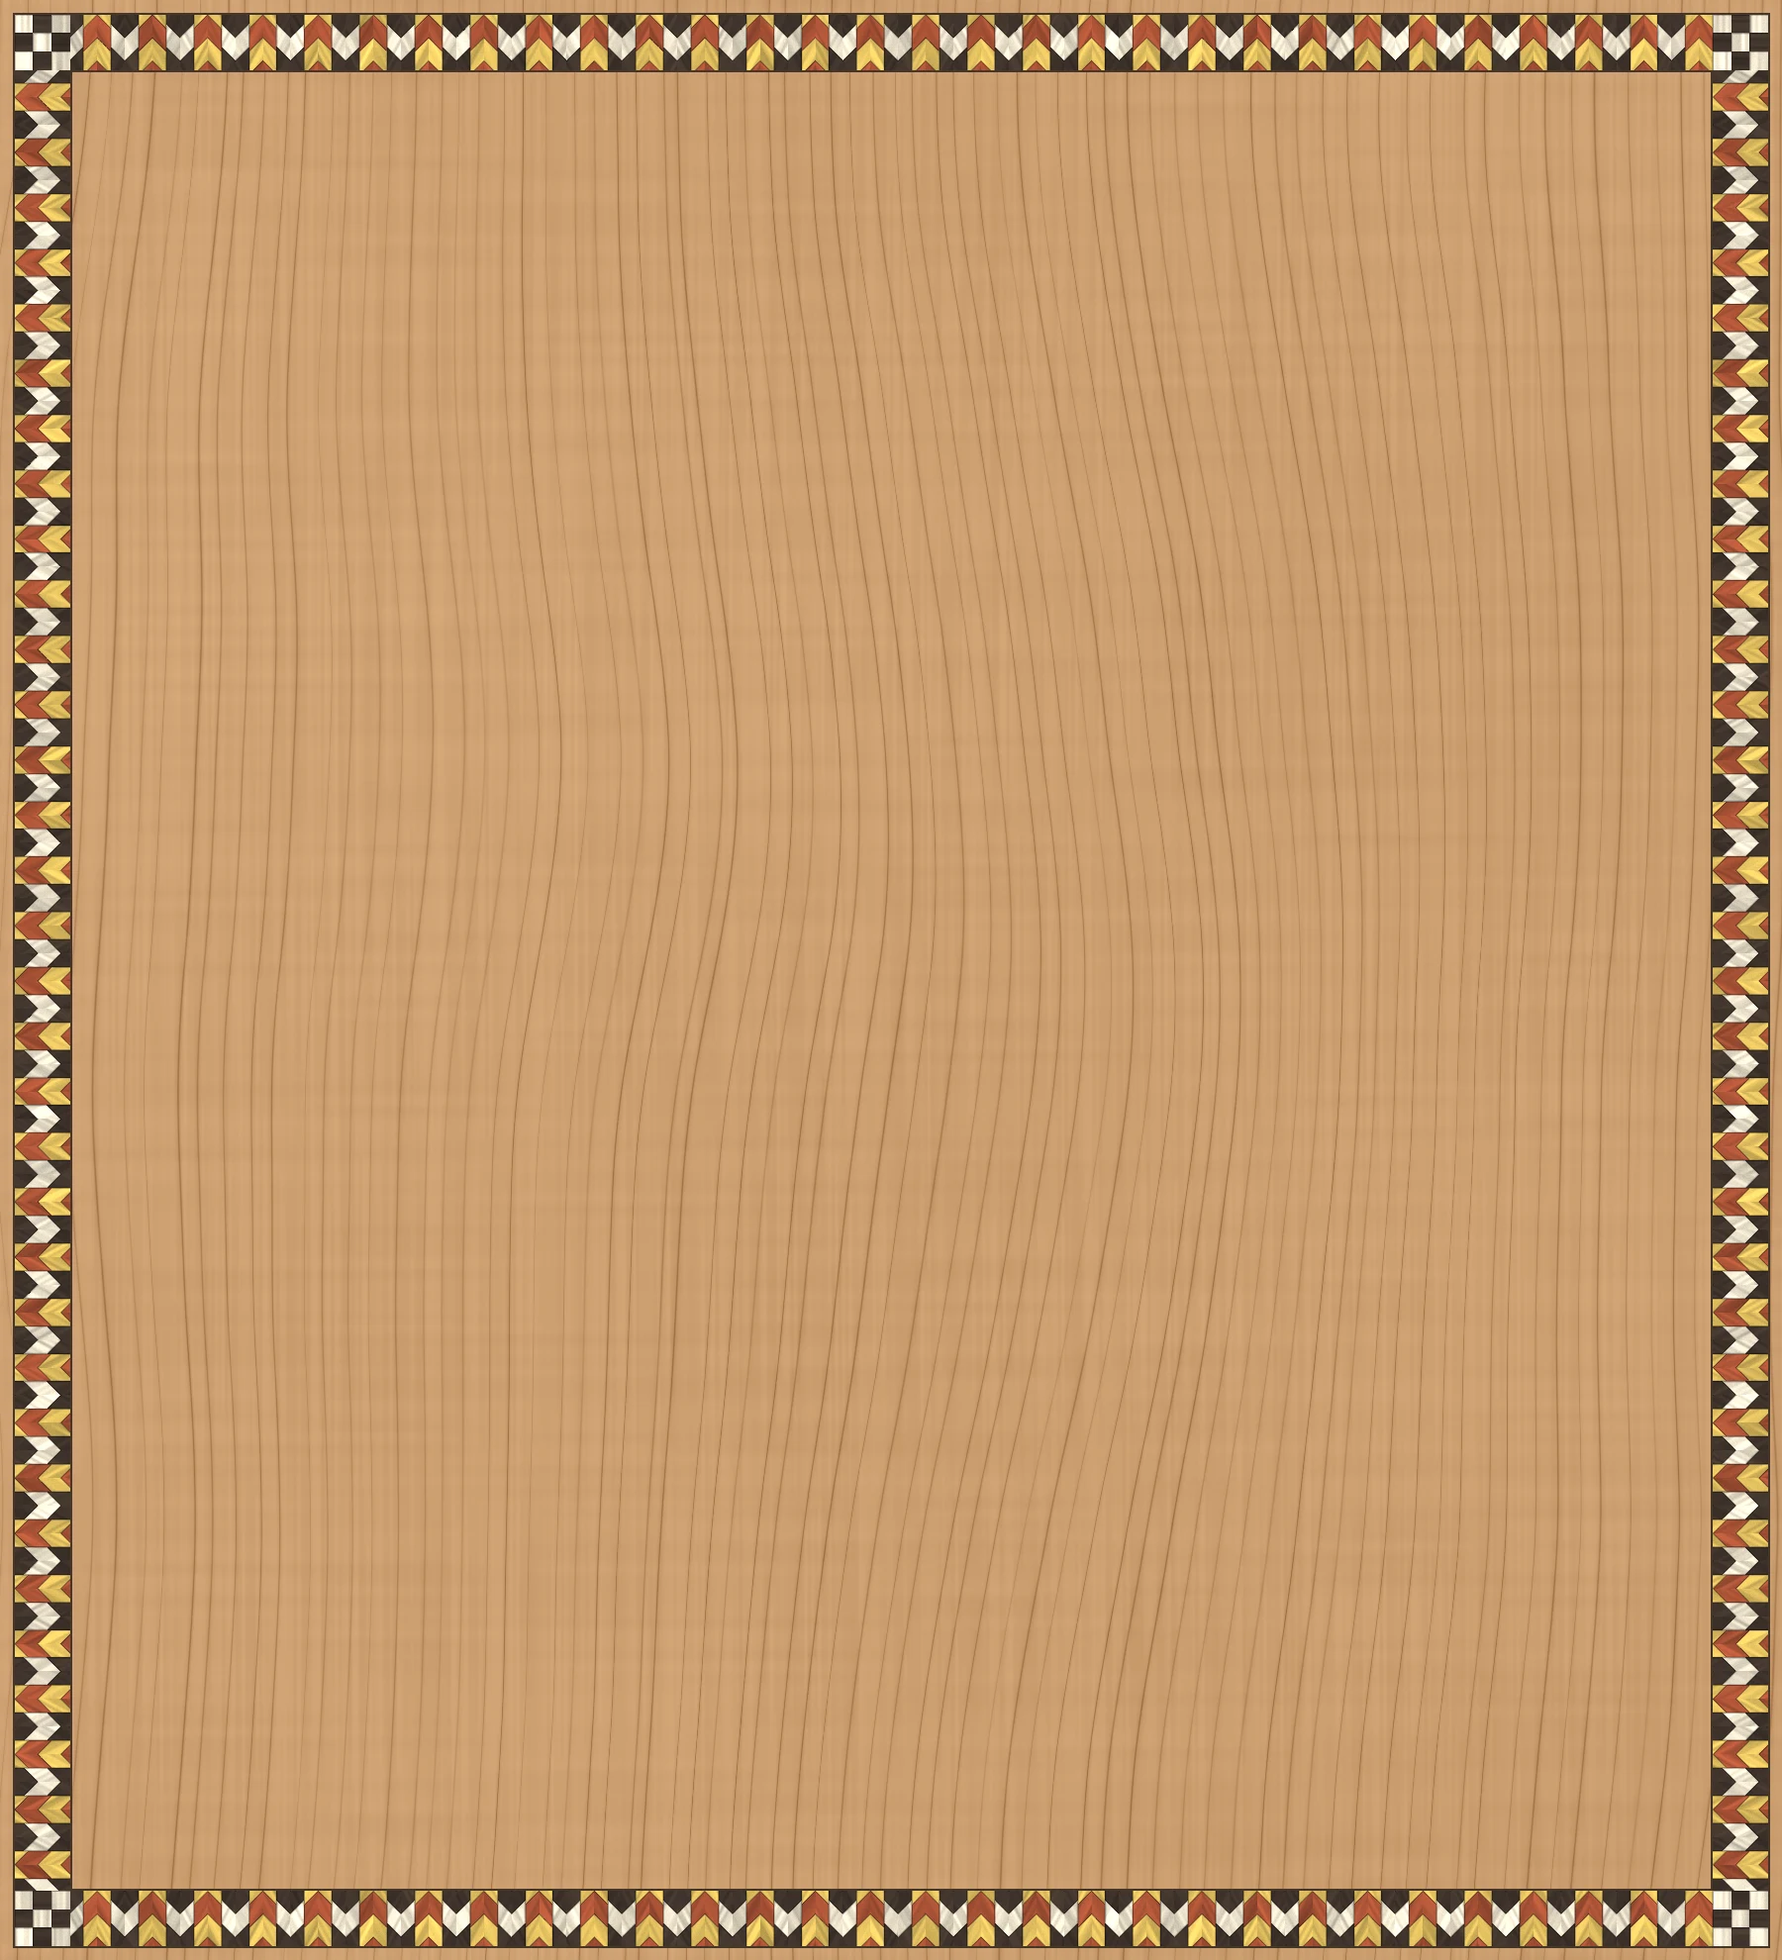
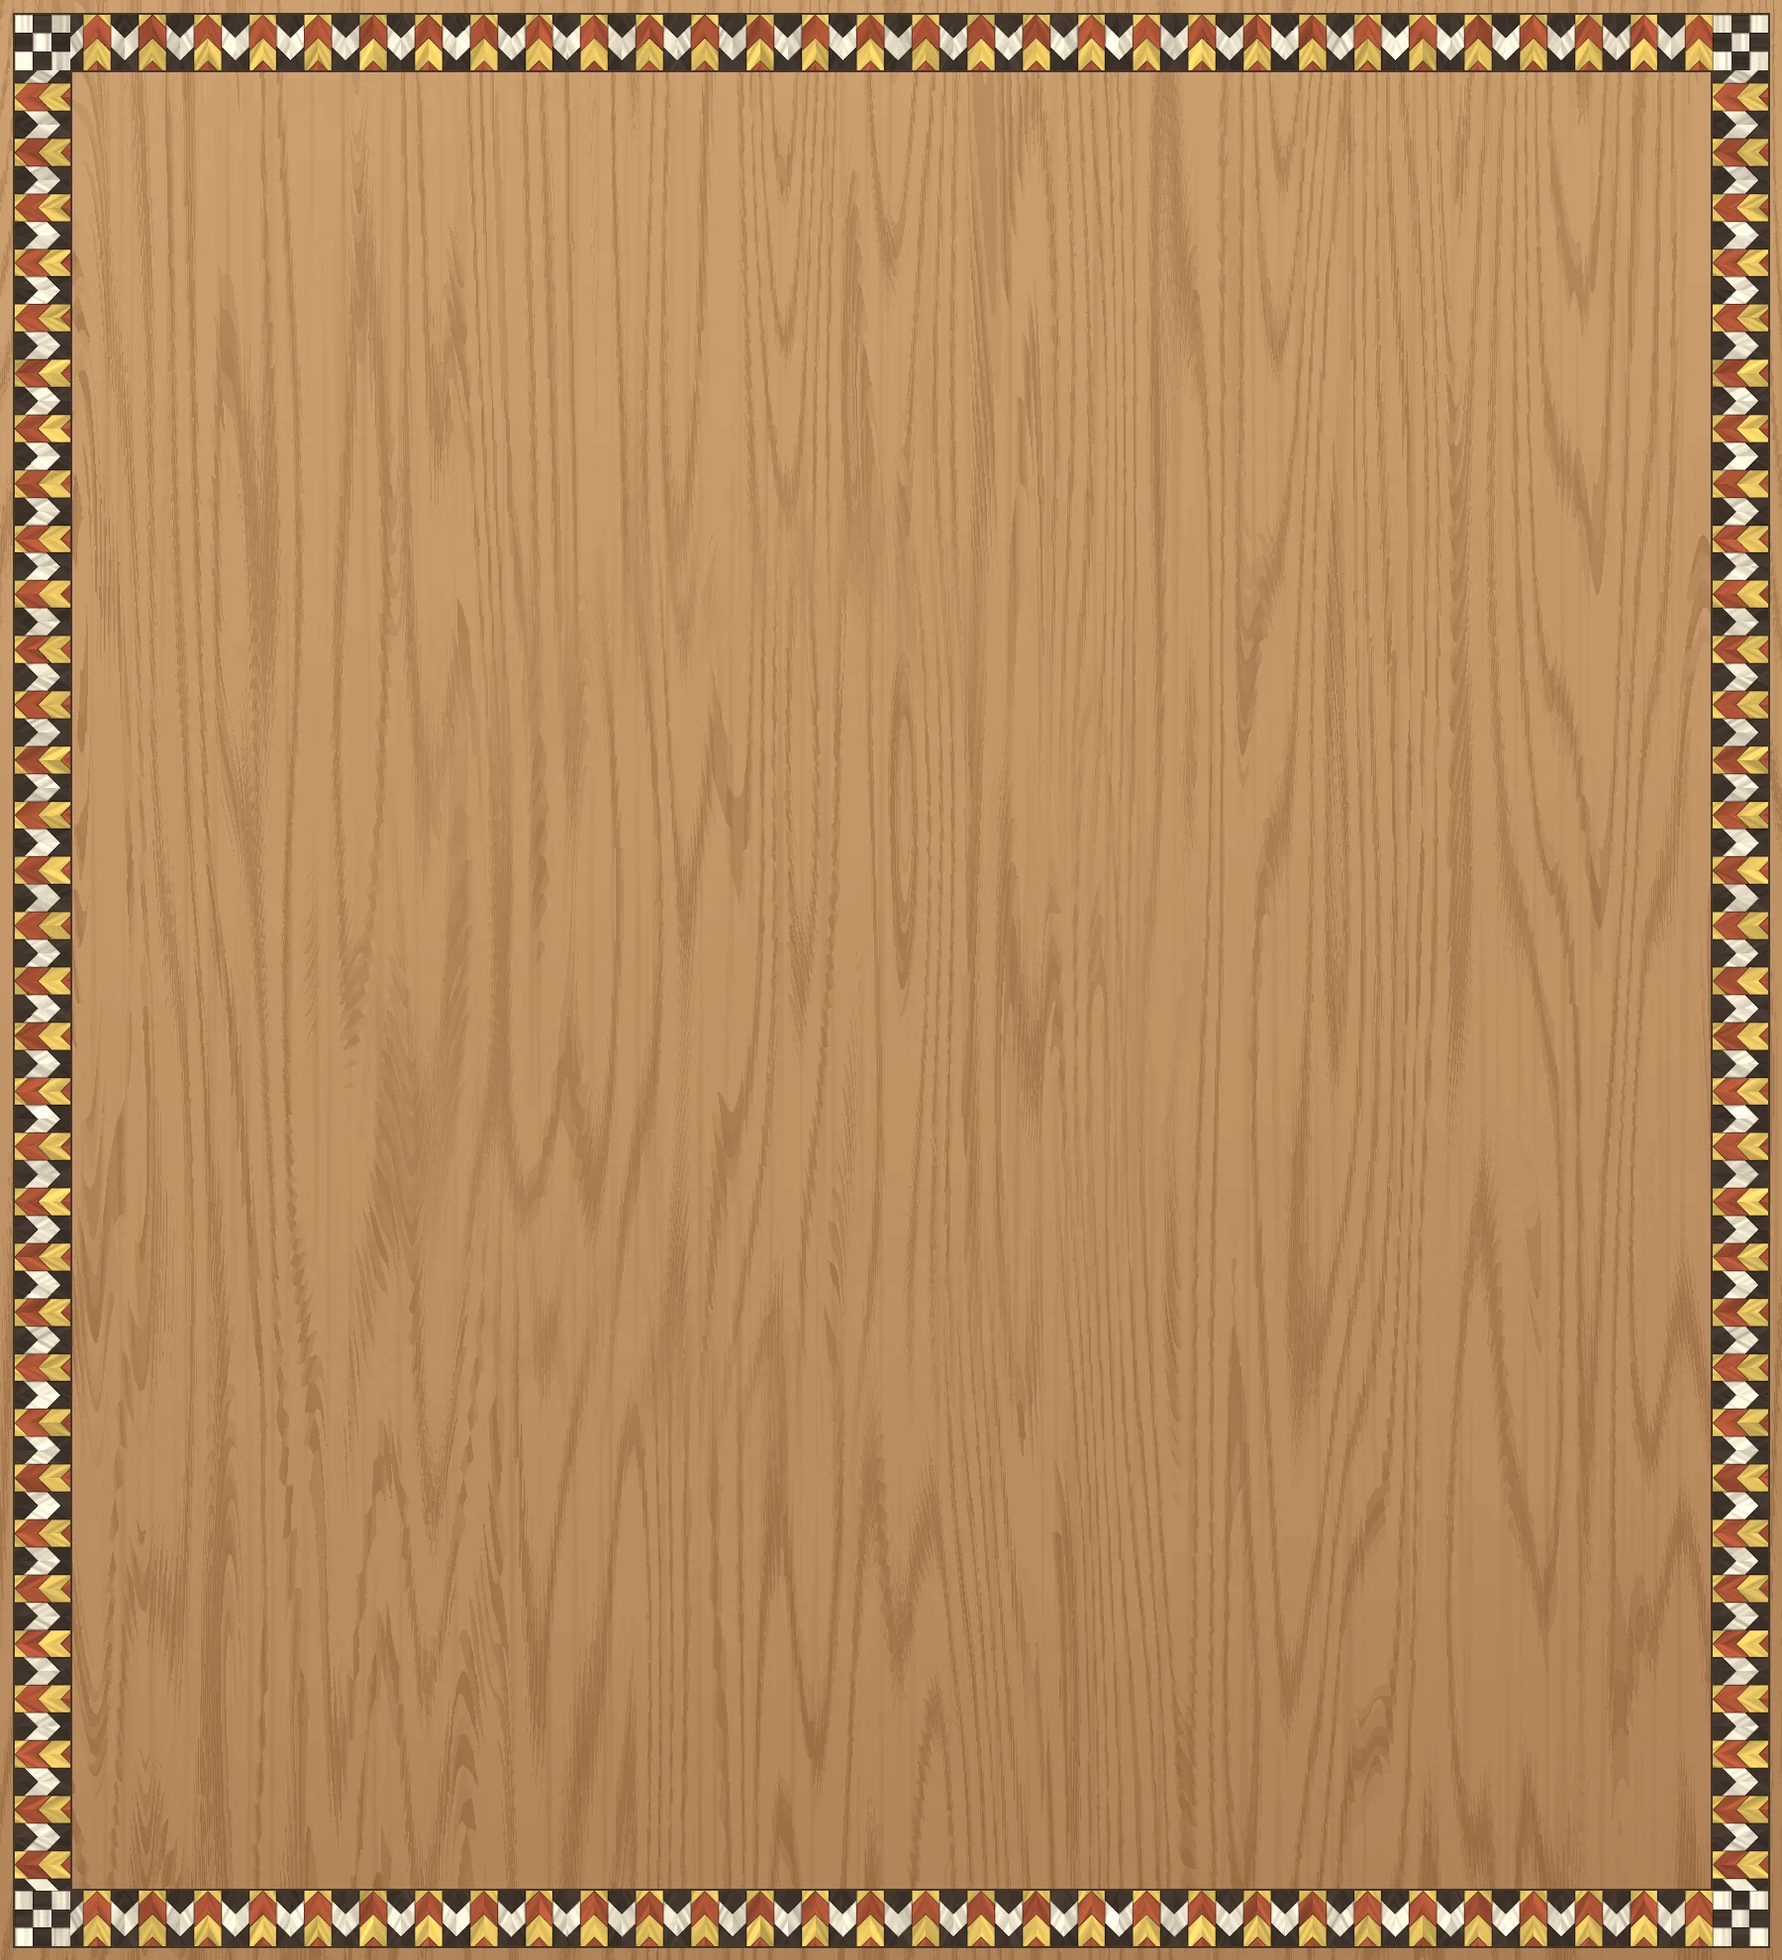
将棋3D盤：寄木細工の盤面を本榧と同じ複雑な木目（桂の色）に
Claude-Session: https://claude.ai/code/session_01EiWRAWLV8eg6m15v5x8gee

diff --git a/atlas/lazy.js b/atlas/lazy.js
@@ -5,7 +5,7 @@
      AtlasLazy.has3D(id) / hasPlay(id) / hasRules(id) — known before loading; AtlasLazy.loaded(id) */
 (function () {
 'use strict';
-const G = {"reversi": ["games/reversi.js?v=36", "rules/reversi.js?v=14"], "shogi": ["models/shogi.js?v=40", "games/shogi-play.js?v=32", "games/shogi.js?v=14", "rules/shogi.js?v=21"], "chess": ["models/chess.js?v=16", "games/chess.js?v=15", "rules/chess.js?v=7"], "backgammon": ["models/backgammon.js?v=118", "games/backgammon.js?v=22", "rules/backgammon.js?v=11"], "gomoku": ["models/goban.js?v=14", "games/gomoku.js?v=12", "rules/gomoku.js?v=9"], "go": ["models/goban.js?v=14", "games/go.js?v=7", "rules/go.js?v=7"], "hex": ["models/goban.js?v=14", "models/hex.js?v=2", "games/hex.js?v=6", "rules/hex.js?v=6"], "tafl": ["games/tafl.js?v=15", "rules/tafl.js?v=7"], "xiangqi": ["models/xiangqi.js?v=4", "games/xiangqi.js?v=13", "rules/xiangqi.js?v=6"], "janggi": ["models/xiangqi.js?v=4", "models/janggi.js?v=3", "games/janggi.js?v=5", "rules/janggi.js?v=2"], "checkers": ["models/checkers.js?v=17", "games/checkers.js?v=8", "rules/checkers.js?v=4"], "ugolki": ["models/checkers.js?v=17", "models/ugolki.js?v=4", "games/ugolki.js?v=8", "rules/ugolki.js?v=8"], "morris": ["models/morris.js?v=7", "games/morris-pieces.js?v=2", "games/morris.js?v=7", "rules/morris.js?v=5"], "connect4": ["models/connect4.js?v=5", "games/connect4-tiles.js?v=1", "games/connect4.js?v=5", "rules/connect4.js?v=3"], "mancala": ["models/mancala.js?v=5", "games/mancala.js?v=10", "rules/mancala.js?v=4"], "dots": ["models/dots.js?v=4", "games/dots.js?v=9", "rules/dots.js?v=3"], "ur": ["models/ur-dice.js?v=2", "models/ur.js?v=4", "games/ur-kit.js?v=15", "games/ur.js?v=11", "rules/ur.js?v=16"], "fanorona": ["models/fanorona.js?v=4", "games/fanorona.js?v=6", "rules/fanorona.js?v=8"], "konane": ["models/konane.js?v=7", "games/konane.js?v=11", "rules/konane.js?v=5"], "amazons": ["models/amazons.js?v=7", "games/amazons.js?v=10", "rules/amazons.js?v=4"], "senet": ["models/ur-dice.js?v=2", "models/senet.js?v=10", "games/senet-kit.js?v=5", "games/senet.js?v=16", "rules/senet.js?v=8"], "agon": ["models/agon.js?v=4", "games/agon.js?v=11", "rules/agon.js?v=5"], "alquerque": ["models/alquerque.js?v=3", "rules/alquerque.js?v=6"], "ludo": ["../ludo/engine.js?v=3", "../ludo/house.js?v=7", "../ludo/board2d.js?v=7", "../ludo/board-art.js?v=3", "models/ludo.js?v=10", "games/ludo.js?v=28", "rules/ludo.js?v=3"], "carrom": ["../carrom/engine.js?v=6", "models/carrom.js?v=17", "games/carrom.js?v=37", "rules/carrom.js?v=8"], "crokinole": ["../carrom/engine.js?v=6", "games/carrom.js?v=37", "../crokinole/engine.js?v=3", "models/crokinole.js?v=12", "games/crokinole.js?v=14", "rules/crokinole.js?v=4"], "hockey": ["../hockey/engine.js?v=13", "models/hockey.js?v=8", "games/hockey.js?v=19", "rules/hockey.js?v=7"], "peg": ["../peg/engine.js?v=1", "models/peg.js?v=5", "rules/peg.js?v=4"]};
+const G = {"reversi": ["games/reversi.js?v=36", "rules/reversi.js?v=14"], "shogi": ["models/shogi.js?v=41", "games/shogi-play.js?v=32", "games/shogi.js?v=14", "rules/shogi.js?v=21"], "chess": ["models/chess.js?v=16", "games/chess.js?v=15", "rules/chess.js?v=7"], "backgammon": ["models/backgammon.js?v=118", "games/backgammon.js?v=22", "rules/backgammon.js?v=11"], "gomoku": ["models/goban.js?v=14", "games/gomoku.js?v=12", "rules/gomoku.js?v=9"], "go": ["models/goban.js?v=14", "games/go.js?v=7", "rules/go.js?v=7"], "hex": ["models/goban.js?v=14", "models/hex.js?v=2", "games/hex.js?v=6", "rules/hex.js?v=6"], "tafl": ["games/tafl.js?v=15", "rules/tafl.js?v=7"], "xiangqi": ["models/xiangqi.js?v=4", "games/xiangqi.js?v=13", "rules/xiangqi.js?v=6"], "janggi": ["models/xiangqi.js?v=4", "models/janggi.js?v=3", "games/janggi.js?v=5", "rules/janggi.js?v=2"], "checkers": ["models/checkers.js?v=17", "games/checkers.js?v=8", "rules/checkers.js?v=4"], "ugolki": ["models/checkers.js?v=17", "models/ugolki.js?v=4", "games/ugolki.js?v=8", "rules/ugolki.js?v=8"], "morris": ["models/morris.js?v=7", "games/morris-pieces.js?v=2", "games/morris.js?v=7", "rules/morris.js?v=5"], "connect4": ["models/connect4.js?v=5", "games/connect4-tiles.js?v=1", "games/connect4.js?v=5", "rules/connect4.js?v=3"], "mancala": ["models/mancala.js?v=5", "games/mancala.js?v=10", "rules/mancala.js?v=4"], "dots": ["models/dots.js?v=4", "games/dots.js?v=9", "rules/dots.js?v=3"], "ur": ["models/ur-dice.js?v=2", "models/ur.js?v=4", "games/ur-kit.js?v=15", "games/ur.js?v=11", "rules/ur.js?v=16"], "fanorona": ["models/fanorona.js?v=4", "games/fanorona.js?v=6", "rules/fanorona.js?v=8"], "konane": ["models/konane.js?v=7", "games/konane.js?v=11", "rules/konane.js?v=5"], "amazons": ["models/amazons.js?v=7", "games/amazons.js?v=10", "rules/amazons.js?v=4"], "senet": ["models/ur-dice.js?v=2", "models/senet.js?v=10", "games/senet-kit.js?v=5", "games/senet.js?v=16", "rules/senet.js?v=8"], "agon": ["models/agon.js?v=4", "games/agon.js?v=11", "rules/agon.js?v=5"], "alquerque": ["models/alquerque.js?v=3", "rules/alquerque.js?v=6"], "ludo": ["../ludo/engine.js?v=3", "../ludo/house.js?v=7", "../ludo/board2d.js?v=7", "../ludo/board-art.js?v=3", "models/ludo.js?v=10", "games/ludo.js?v=28", "rules/ludo.js?v=3"], "carrom": ["../carrom/engine.js?v=6", "models/carrom.js?v=17", "games/carrom.js?v=37", "rules/carrom.js?v=8"], "crokinole": ["../carrom/engine.js?v=6", "games/carrom.js?v=37", "../crokinole/engine.js?v=3", "models/crokinole.js?v=12", "games/crokinole.js?v=14", "rules/crokinole.js?v=4"], "hockey": ["../hockey/engine.js?v=13", "models/hockey.js?v=8", "games/hockey.js?v=19", "rules/hockey.js?v=7"], "peg": ["../peg/engine.js?v=1", "models/peg.js?v=5", "rules/peg.js?v=4"]};
 const F = {"reversi": {"t3": true, "play": true, "rules": true}, "shogi": {"t3": true, "play": true, "rules": true}, "chess": {"t3": true, "play": true, "rules": true}, "backgammon": {"t3": true, "play": true, "rules": true}, "gomoku": {"t3": true, "play": true, "rules": true}, "go": {"t3": true, "play": true, "rules": true}, "hex": {"t3": true, "play": true, "rules": true}, "tafl": {"t3": true, "play": true, "rules": true}, "xiangqi": {"t3": true, "play": true, "rules": true}, "janggi": {"t3": true, "play": true, "rules": true}, "checkers": {"t3": true, "play": true, "rules": true}, "ugolki": {"t3": true, "play": true, "rules": true}, "morris": {"t3": true, "play": true, "rules": true}, "connect4": {"t3": true, "play": true, "rules": true}, "mancala": {"t3": true, "play": true, "rules": true}, "dots": {"t3": true, "play": true, "rules": true}, "ur": {"t3": true, "play": true, "rules": true}, "fanorona": {"t3": true, "play": true, "rules": true}, "konane": {"t3": true, "play": true, "rules": true}, "amazons": {"t3": true, "play": true, "rules": true}, "senet": {"t3": true, "play": true, "rules": true}, "agon": {"t3": true, "play": true, "rules": true}, "alquerque": {"t3": true, "play": false, "rules": true}, "ludo": {"t3": true, "play": true, "rules": true}, "carrom": {"t3": true, "play": true, "rules": true}, "crokinole": {"t3": true, "play": true, "rules": true}, "hockey": {"t3": true, "play": true, "rules": true}, "peg": {"t3": true, "play": false, "rules": true}};
 const done = new Set(), loading = new Map(), ok = new Set();
 function load(src) {

diff --git a/atlas/tools/shogi-tex.html b/atlas/tools/shogi-tex.html
@@ -382,7 +382,7 @@
     const bands = [[0, .3, { kind: 'field', wood: 'katsura' }], [.3, .34, { kind: 'stripe', a: H * .013, y0: H * .3, cols: ['dark', 'white', 'dark'] }], [.34, .66, { kind: 'zig', a: H * .055, p: H * .16, amp: H * .1, x0: 0, y0: H * .34 - H * .1, cols: ['dark', 'white', 'brown', 'white'] }], [.66, .7, { kind: 'stripe', a: H * .013, y0: H * .66, cols: ['dark', 'white', 'dark'] }], [.7, 1, { kind: 'field', wood: 'katsura' }]];
     return pix(W, H, (x, y) => { const v = y / H, b = bands.find(b => v >= b[0] && v < b[1]) || bands[4]; let o = yosegiPx(x, y, b[2], s); if (b[2].kind === 'field') o = straight(x, y, W, H, s + 40, [214, 170, 122], [150, 100, 58], 46, .85, false, 2.6); return o; });
   }
-  function yosegiTop(W, H, s) {   // a pale ホオ field; the rim (the margin around the grid) a band of 矢羽根 with 市松 corners
+  function yosegiTop(W, H, s, kd) {   // kd: the 本榧 top's pixels (the same grain, recoloured to 桂)   // a pale ホオ field; the rim (the margin around the grid) a band of 矢羽根 with 市松 corners
     const mg = W * .05, bw = mg * .62, b0 = mg * .16;   // the board's margin is .5 of the 10-unit width
     return pix(W, H, (x, y) => {
       const inB = (x > b0 && x < W - b0 && y > b0 && y < H - b0) && !(x > b0 + bw && x < W - b0 - bw && y > b0 + bw && y < H - b0 - bw);
@@ -394,7 +394,7 @@
         const o = yosegiPx(lx, ly, { kind: 'yabane', a: bw / 2, x0: 0, y0: 0 }, s); return o;
       }
       const edge = Math.min(Math.abs(x - b0), Math.abs(y - b0), Math.abs(W - b0 - x), Math.abs(H - b0 - y), Math.abs(x - b0 - bw), Math.abs(y - b0 - bw), Math.abs(W - b0 - bw - x), Math.abs(H - b0 - bw - y));
-      const o = straight(x, y, W, H, s + 40, [214, 170, 122], [150, 100, 58], 74, .85, true, 2.6);   // 桂, the same tone as the 駒台 (2026-11-11)
+      const o = kd ? (() => { const i = (y * W + x) * 4, t = Math.max(0, Math.min(1, (226 - (kd[i] * .5 + kd[i + 1] * .35 + kd[i + 2] * .15)) / 95)); return [mix(216, 132, t), mix(172, 86, t), mix(124, 48, t)]; })() : straight(x, y, W, H, s + 40, [214, 170, 122], [150, 100, 58], 74, .85, true, 2.6);   // 桂, the same tone as the 駒台 (2026-11-11)
       if (edge < 2.2 && x > b0 - 2 && x < W - b0 + 2 && y > b0 - 2 && y < H - b0 + 2) return [70, 54, 40];
       return o;
     });
@@ -641,7 +641,7 @@
   const GENS = {
     'top-grain': () => { const W = 1800, H = 1980, c = pix(W, H, (x, y) => { const o = straight(x, y, W, H, 41, [226, 198, 146], [176, 130, 72], 96, 1.05, true); const sil = (vnoise(x / W * 3, y / H * 40, 43) - .5) * 14; return [o[0] + sil, o[1] + sil * .9, o[2] + sil * .6]; }); vignette(ctx(c), W, H, 'rgba(150,100,40,.28)', .6); return c; },   // 新榧 (2026-11-11 v2: fine 柾目 with a silky sheen, not the 2D SVG)
     'top-ink': () => top2d('ink'),
-    'top-yosegi': () => yosegiTop(1800, 1980, 5),
+    'top-yosegi': async () => { const im = await loadImg('../../images/atlas/shogi-kaya.webp?v=3'), c = cv(1800, 1980), g = ctx(c); g.drawImage(im, 0, 0, 1800, 1980); return yosegiTop(1800, 1980, 5, g.getImageData(0, 0, 1800, 1980).data); },   // (2026-11-11: the 本榧 grain in 桂's colour)
     'top-sakura': () => sakuraTop(1800, 1980, 9),
     'side-makie': () => makie('side')[0], 'side-makie-m': () => makie('side')[1],
     'end-makie': () => makie('end')[0], 'end-makie-m': () => makie('end')[1],

diff --git a/shogi/index.html b/shogi/index.html
@@ -6466,7 +6466,7 @@ if (window.Online && Online.available) setInterval(() => { if (dock.on) chatStar
   const f = document.createElement('link'); f.rel = 'stylesheet'; f.href = 'https://fonts.googleapis.com/css2?family=RocknRoll+One&family=Zen+Maru+Gothic:wght@500;700;900&family=Fredoka:wght@600;700&display=swap'; document.head.appendChild(f);
   const load = src => new Promise((res, rej) => { const s = document.createElement('script'); s.src = src; s.onload = res; s.onerror = rej; document.body.appendChild(s); });
   if (window.AtlasLoading) { AtlasLoading.show(); setTimeout(() => AtlasLoading.hide(), 12000); }   // safety net
-  load('https://cdnjs.cloudflare.com/ajax/libs/three.js/r128/three.min.js').then(() => load('../atlas/img/tex/baked.js?v=1')).then(() => load('../atlas/table3d.js?v=150')).then(() => load('../atlas/tables3d.js?v=63')).then(() => load('../atlas/skin/common.js?v=71')).then(() => load('../atlas/models/shogi.js?v=40')).then(() => load('../atlas/skin/shogi.js?v=36'))
+  load('https://cdnjs.cloudflare.com/ajax/libs/three.js/r128/three.min.js').then(() => load('../atlas/img/tex/baked.js?v=1')).then(() => load('../atlas/table3d.js?v=150')).then(() => load('../atlas/tables3d.js?v=63')).then(() => load('../atlas/skin/common.js?v=71')).then(() => load('../atlas/models/shogi.js?v=41')).then(() => load('../atlas/skin/shogi.js?v=36'))
     .catch(() => { document.documentElement.classList.remove('atlas-skin'); if (window.AtlasLoading) AtlasLoading.hide(); });
 })();
 </script>

diff --git a/atlas/models/shogi.js b/atlas/models/shogi.js
@@ -200,7 +200,7 @@
     sakura: { top: 'top-sakura', side: 'sakura', stand: 'sakura', leg: ['#8a3a26', '#4a1c12'], bottom: 0x2a0806, line: 'rgba(48,20,10,.92)', raden: true },   // (v3: 朱溜 lacquer with 螺鈿 cherry blossoms and a 鶯)
   };
   const SH3 = (() => { try { return new URL('../../images/atlas/shogi3d/', (document.currentScript && document.currentScript.src) || location.href).href; } catch (e) { return '../images/atlas/shogi3d/'; } })();
-  const SH3V = '?v=6';
+  const SH3V = '?v=7';
   const lookOf = o => { const k = (o && o.look) || (X.BOARDS && X.BOARDS.shogi ? X.BOARDS.shogi.get() : 'kaya'); return LOOK[k] ? k : 'kaya'; };
   const imgs = {};
   function withImg(name, fn) {

diff --git a/atlas/index.html b/atlas/index.html
@@ -2002,7 +2002,7 @@ window.AtlasRgdTimer = function (btn, ms, alive) {
   }, 60);
 };</script>
 <script src="../shared/tapword.js?v=1"></script>
-<script src="lazy.js?v=69"></script>
+<script src="lazy.js?v=70"></script>
 <script src="puzzle-lines.js?v=1"></script>
 <script src="puzzles.js?v=12"></script>
 <script src="lessons3d.js?v=8"></script>
